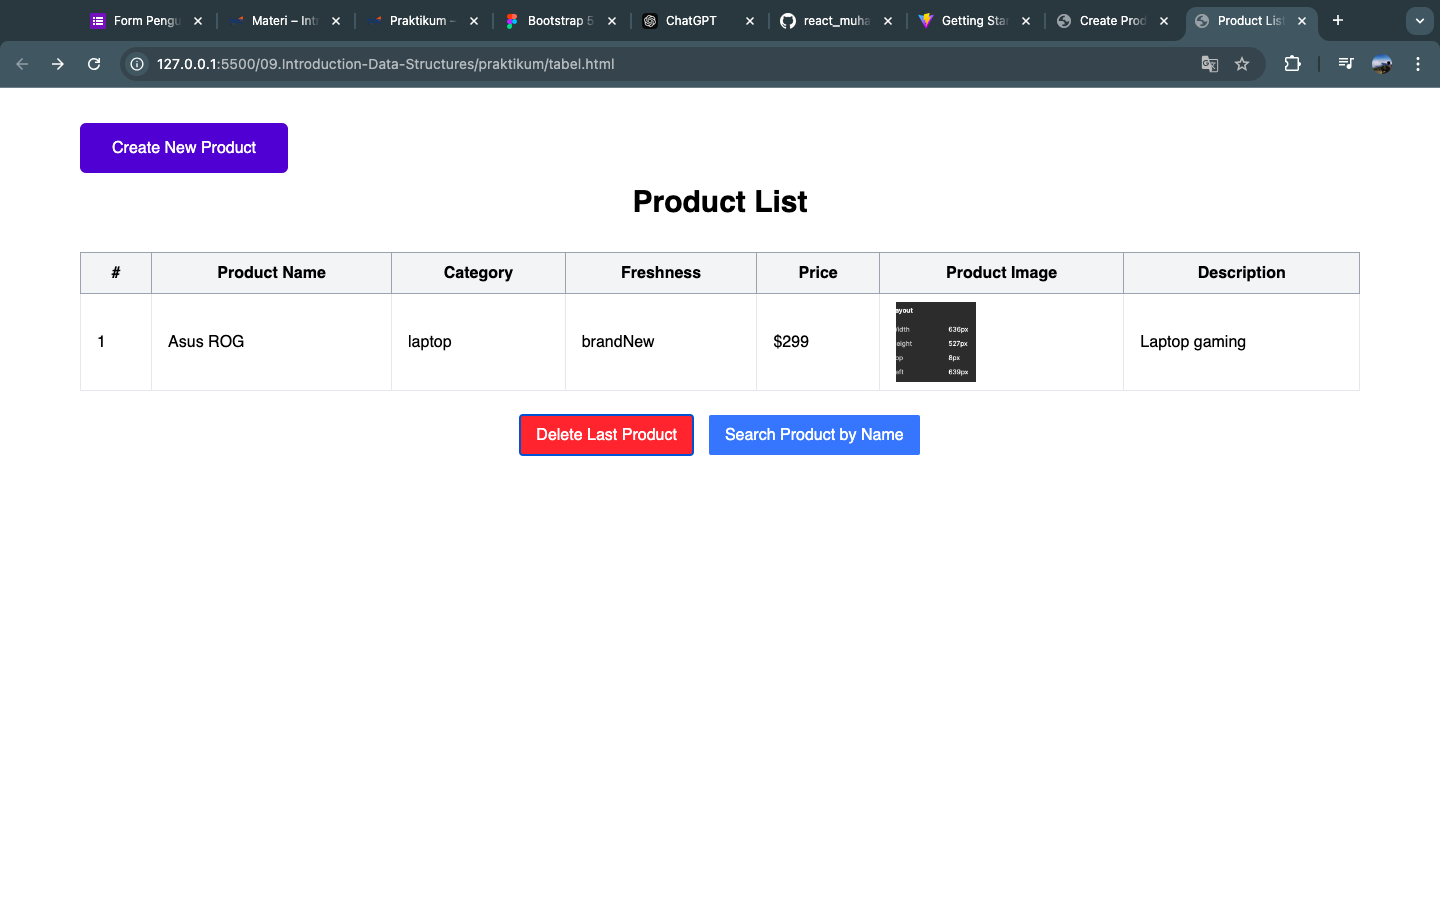
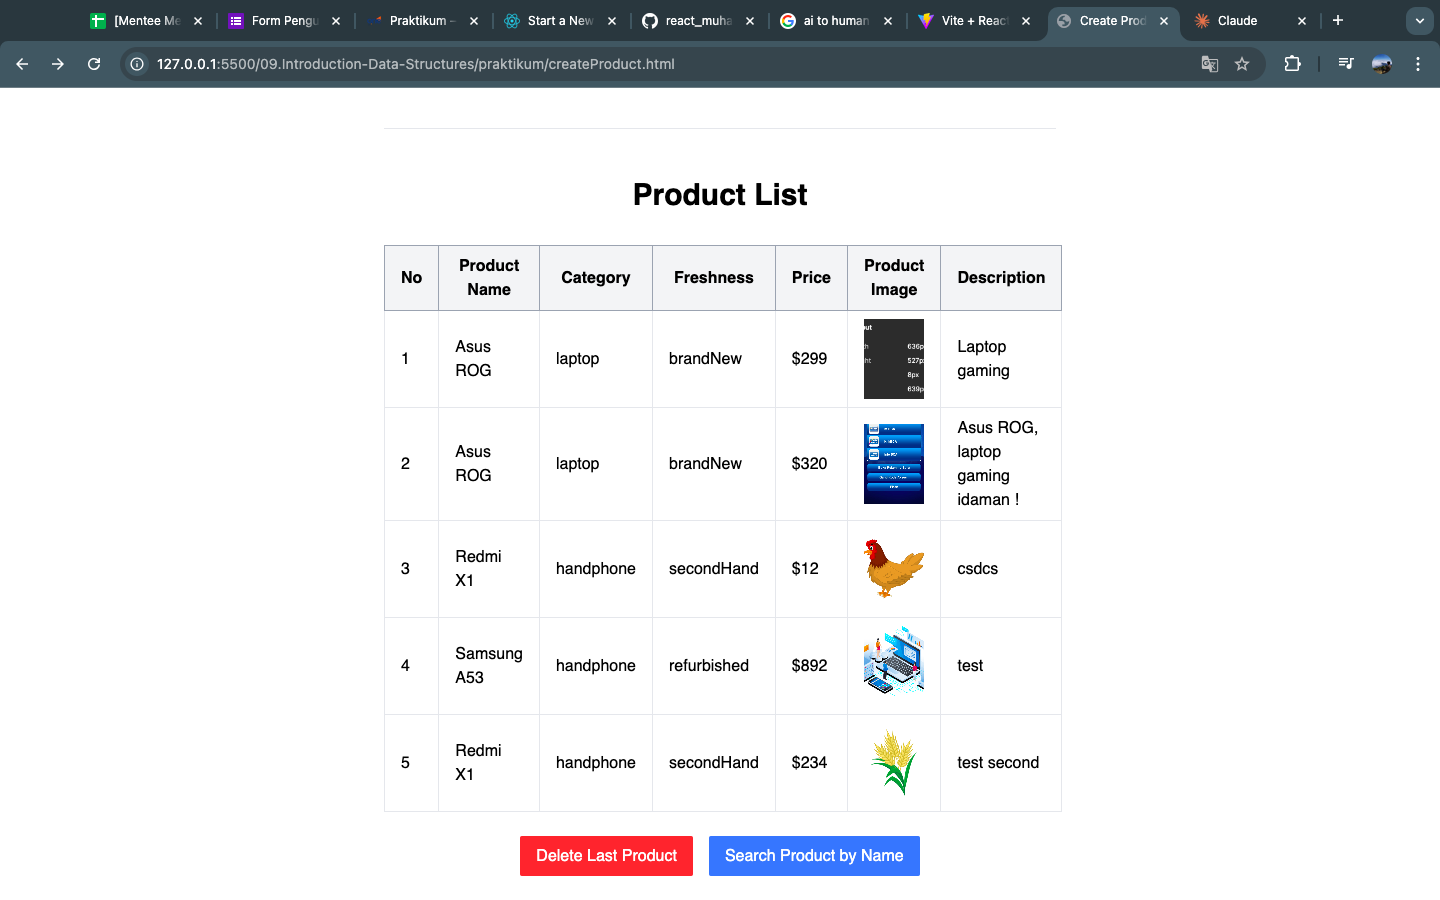
Commit Update

diff --git a/09.Introduction-Data-Structures/praktikum/createProduct.html b/09.Introduction-Data-Structures/praktikum/createProduct.html
@@ -78,9 +78,9 @@
               minlength="6"
               required
               placeholder="Enter product name"
-              class="w-[282px] px-4 py-2 mb-1 border rounded-md focus:ring focus:ring-bs-blue focus:outline-none"
+              class="w-[282px] px-4 py-2 mb-1 border rounded-md focus:ring focus:ring-bs-blue focus:outline-none peer"
             />
-            <p class="text-sm mt-1 hidden peer-invalid:block">
+            <p class="text-sm mt-1 text-red-500 hidden peer-invalid:block">
               Product Name must be at least 6 characters.
             </p>
           </div>
@@ -204,8 +204,8 @@
           </div>
 
           <div
-            class="fixed inset-0 flex items-center justify-center z-50 hidden"
             id="modal"
+            class="fixed inset-0 flex items-center justify-center z-50 hidden"
           >
             <div class="bg-gray-800 bg-opacity-50 absolute inset-0"></div>
             <div class="bg-white rounded-lg overflow-hidden shadow-lg z-10 p-6">
@@ -214,13 +214,13 @@
               <div class="flex justify-end mt-4 space-x-4">
                 <button
                   id="cancelSubmit"
-                  class="bg-red-500 text-white px-4 py-2 rounded-lg"
+                  class="bg-red-500 text-white px-4 py-2 rounded-lg hover:bg-red-700"
                 >
                   No
                 </button>
                 <button
                   id="confirmSubmit"
-                  class="bg-green-500 text-white px-4 py-2 rounded-lg"
+                  class="bg-green-500 text-white px-4 py-2 rounded-lg hover:bg-green-700"
                 >
                   Yes
                 </button>
@@ -228,19 +228,70 @@
             </div>
           </div>
         </form>
+        <hr />
+        <main class="container mx-auto mt-12 font-roboto">
+          <h2 class="text-3xl font-bold text-center mb-8">Product List</h2>
+
+          <table
+            class="min-w-full table-auto border-collapse border border-gray-400"
+          >
+            <thead>
+              <tr class="bg-gray-100">
+                <th class="px-4 py-2 border border-gray-400">No</th>
+                <th class="px-4 py-2 border border-gray-400">Product Name</th>
+                <th class="px-4 py-2 border border-gray-400">Category</th>
+                <th class="px-4 py-2 border border-gray-400">Freshness</th>
+                <th class="px-4 py-2 border border-gray-400">Price</th>
+                <th class="px-4 py-2 border border-gray-400">Product Image</th>
+                <th class="px-4 py-2 border border-gray-400">Description</th>
+              </tr>
+            </thead>
+            <tbody id="productTableBody"></tbody>
+          </table>
+
+          <div class="flex justify-center space-x-4 my-6">
+            <button
+              id="deleteLast"
+              class="bg-red-500 text-white py-2 px-4 rounded-sm hover:bg-red-700"
+            >
+              Delete Last Product
+            </button>
+            <button
+              id="searchProduct"
+              class="bg-blue-500 text-white py-2 px-4 rounded-sm hover:bg-blue-700"
+            >
+              Search Product by Name
+            </button>
+          </div>
+        </main>
       </div>
     </main>
 
     <script>
       const form = document.getElementById("productForm");
       const modal = document.getElementById("modal");
-      const confirmSubmit = document.getElementById("confirmSubmit");
       const cancelSubmit = document.getElementById("cancelSubmit");
-
+      const confirmSubmit = document.getElementById("confirmSubmit");
       let reader = new FileReader();
 
+      // Prevent direct submit and show modal
       form.addEventListener("submit", function (event) {
         event.preventDefault();
+        modal.classList.remove("hidden");
+      });
+
+      // "No" button to close modal
+      cancelSubmit.addEventListener("click", function () {
+        modal.classList.add("hidden");
+      });
+
+      // "Yes" button to process submit
+      confirmSubmit.addEventListener("click", function () {
+        if (!form.checkValidity()) {
+          form.reportValidity();
+          modal.classList.add("hidden");
+          return;
+        }
 
         const productName = document.getElementById("productName").value;
         const productCategory =
@@ -252,39 +303,132 @@
         const description = document.getElementById("description").value;
         const price = document.getElementById("price").value;
 
-        if (form.checkValidity()) {
-          modal.classList.remove("hidden");
-
-          confirmSubmit.addEventListener("click", function () {
-            reader.readAsDataURL(productImage);
-            reader.onload = function () {
-              const product = {
-                productName,
-                productCategory,
-                productImage: reader.result,
-                freshness,
-                description,
-                price,
-              };
-
-              let products = JSON.parse(localStorage.getItem("products")) || [];
-              products.push(product);
-              localStorage.setItem("products", JSON.stringify(products));
-
-              modal.classList.add("hidden");
-              form.reset();
-              window.location.href = "./tabel.html";
-            };
-          });
-
-          cancelSubmit.addEventListener("click", function () {
-            modal.classList.add("hidden");
-            window.location.href = "./createProduct.html";
-          });
+        if (productImage) {
+          reader.readAsDataURL(productImage);
+          reader.onload = function () {
+            saveProduct(
+              productName,
+              productCategory,
+              reader.result,
+              freshness,
+              description,
+              price
+            );
+          };
         } else {
-          form.classList.add("was-validated");
+          saveProduct(
+            productName,
+            productCategory,
+            null,
+            freshness,
+            description,
+            price
+          );
         }
       });
+
+      function saveProduct(
+        productName,
+        productCategory,
+        productImage,
+        freshness,
+        description,
+        price
+      ) {
+        const product = {
+          productName,
+          productCategory,
+          productImage,
+          freshness,
+          description,
+          price,
+        };
+
+        let products = JSON.parse(localStorage.getItem("products")) || [];
+        products.push(product);
+        localStorage.setItem("products", JSON.stringify(products));
+
+        loadProducts();
+        modal.classList.add("hidden");
+        form.reset();
+      }
+
+      // Function to load products from localStorage
+      function loadProducts() {
+        const products = JSON.parse(localStorage.getItem("products")) || [];
+        const tableBody = document.getElementById("productTableBody");
+
+        tableBody.innerHTML = "";
+
+        if (products.length === 0) {
+          const emptyRow = document.createElement("tr");
+          emptyRow.innerHTML = `<td colspan="7" class="text-center py-4">No products available</td>`;
+          tableBody.appendChild(emptyRow);
+        } else {
+          products.forEach((product, index) => {
+            const row = document.createElement("tr");
+            row.innerHTML = `
+              <td class="border px-4 py-2">${index + 1}</td>
+              <td class="border px-4 py-2">${product.productName}</td>
+              <td class="border px-4 py-2">${product.productCategory}</td>
+              <td class="border px-4 py-2">${product.freshness}</td>
+              <td class="border px-4 py-2">$${product.price}</td>
+              <td class="border px-4 py-2">
+                ${
+                  product.productImage
+                    ? `<img src="${product.productImage}" alt="Product Image" class="h-20 w-20 object-cover" />`
+                    : "No image"
+                }
+              </td>
+              <td class="border px-4 py-2">${product.description}</td>
+            `;
+            tableBody.appendChild(row);
+          });
+        }
+      }
+
+      // Load products when page first opens
+      window.onload = loadProducts;
+
+      // Button to delete last product
+      document
+        .getElementById("deleteLast")
+        .addEventListener("click", function () {
+          let products = JSON.parse(localStorage.getItem("products")) || [];
+          if (products.length > 0) {
+            products.pop();
+            localStorage.setItem("products", JSON.stringify(products));
+            loadProducts();
+          } else {
+            alert("No products available to delete.");
+          }
+        });
+
+      // Button to search product by name
+      document
+        .getElementById("searchProduct")
+        .addEventListener("click", function () {
+          let searchName = prompt("Enter product name to search:");
+          if (searchName) {
+            const products = JSON.parse(localStorage.getItem("products")) || [];
+            const foundProduct = products.find(
+              (product) =>
+                product.productName.toLowerCase() === searchName.toLowerCase()
+            );
+
+            if (foundProduct) {
+              alert(`
+              Product Name: ${foundProduct.productName}
+              Category: ${foundProduct.productCategory}
+              Freshness: ${foundProduct.freshness}
+              Price: $${foundProduct.price}
+              Description: ${foundProduct.description}
+            `);
+            } else {
+              alert("Product not found.");
+            }
+          }
+        });
     </script>
   </body>
 </html>
